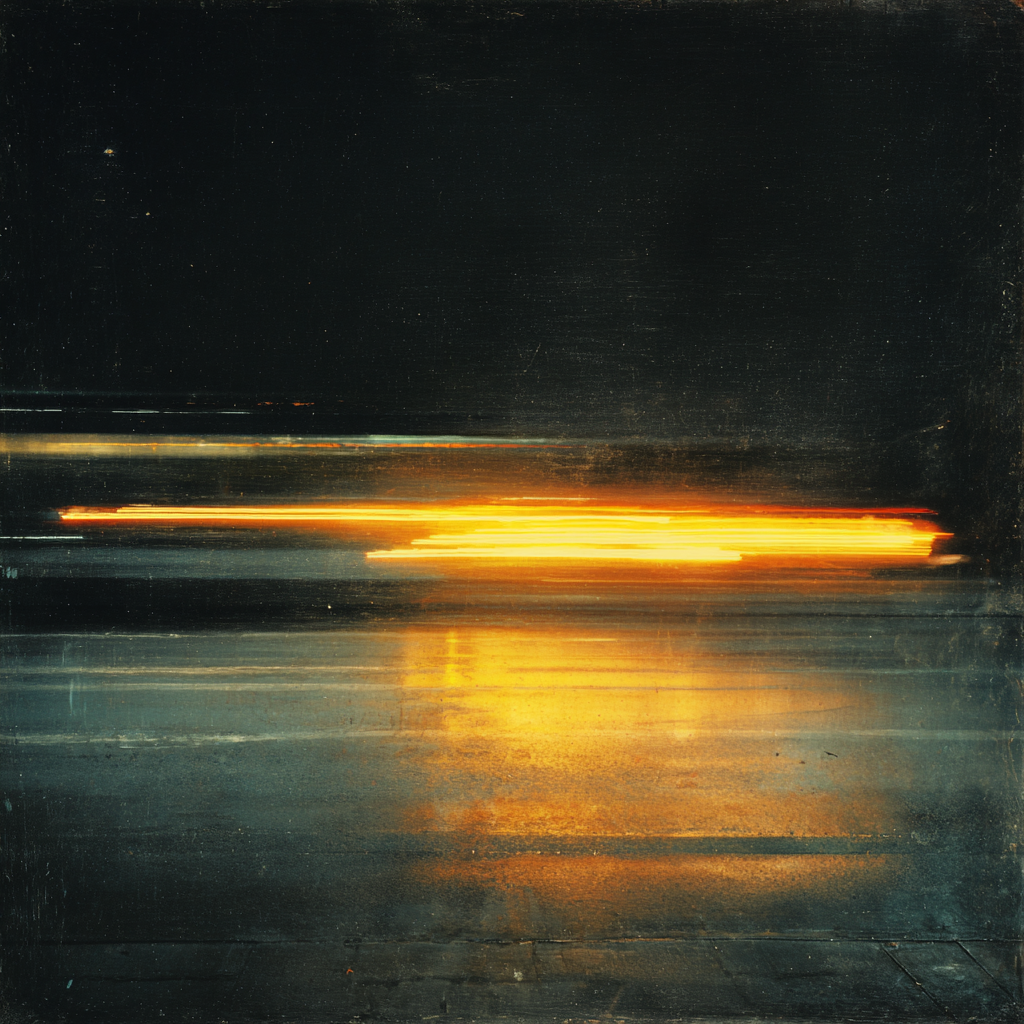
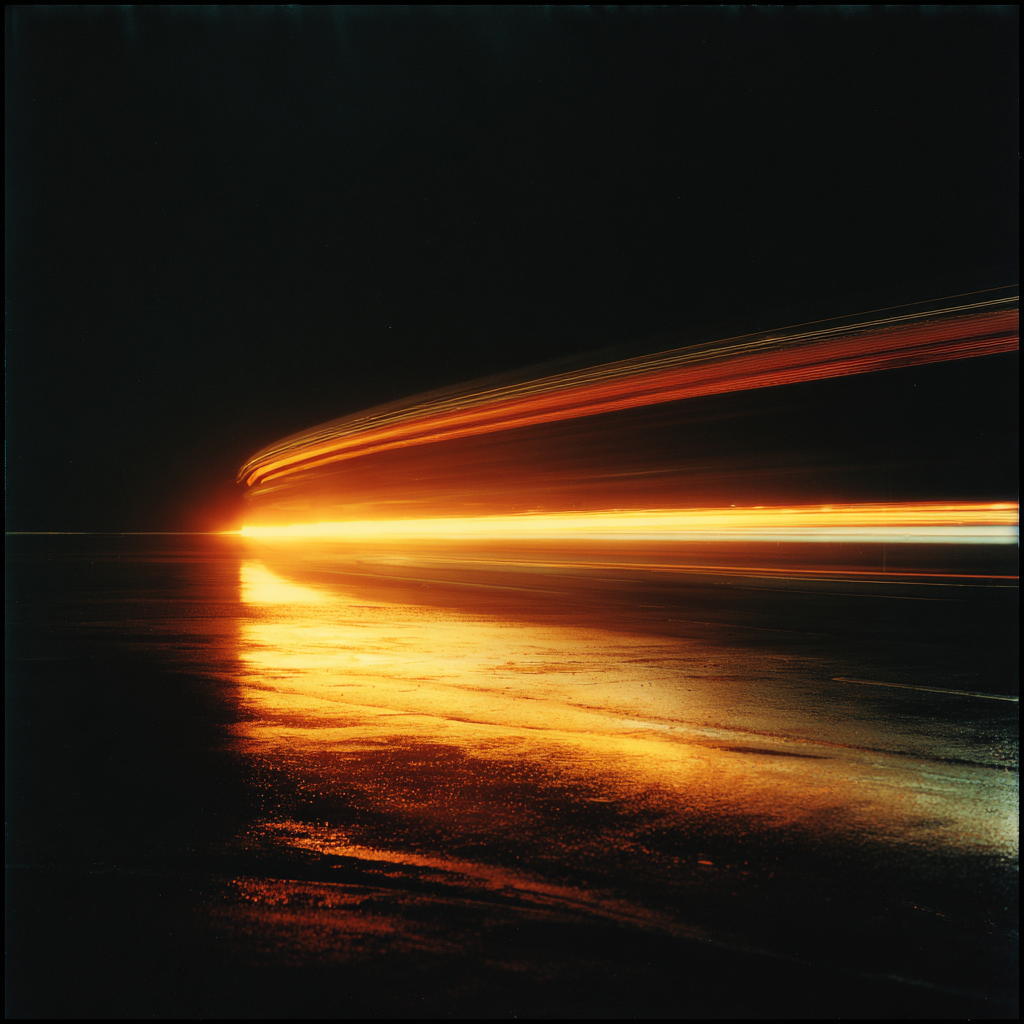
Hero: swap to background3 + 25% darken overlay
- public/img/hero-bg.png replaced with the new background3 source
  (sharper gold streak against deeper black, similar composition).
- New .hero__darken layer sits on top of the photograph + orbs (z=-1,
  source-after) so it brings the whole hero atmosphere down to ~75%
  brightness. Independent of image opacity so contrast and image
  brightness can be tuned separately if needed.
- Stacking order: bg (-2) → orbs (-1) → darken (-1 source-after) →
  noise → veil → text content. Text remains unaffected.

diff --git a/public/styles.css b/public/styles.css
@@ -1135,6 +1135,18 @@ body::after {
      here so the JS (motion.js parallax handler) can own it. */
 }
 
+/* 25 % darken layer sitting on top of the photograph AND the orbs.
+   Brings the whole hero atmosphere down to ~75% brightness, independent
+   of the image's own opacity so contrast can be tuned without changing
+   the photo's tonal range. */
+.hero__darken {
+  position: absolute;
+  inset: 0;
+  z-index: -1;
+  pointer-events: none;
+  background: rgba(0, 0, 0, 0.25);
+}
+
 /* Cloudy / pixellated noise overlay — monopo-style atmospheric texture.
    Generated inline as an SVG feTurbulence so we ship zero extra bytes
    and the texture stays crisp at any DPR. */

diff --git a/public/index.html b/public/index.html
@@ -39,13 +39,15 @@
         <div class="hero__bg" aria-hidden="true" data-parallax="0.35">
           <img src="/img/hero-bg.png" alt="" loading="eager" />
         </div>
-        <!-- Soft drifting orbs over the photograph, plus a noise overlay
-             so the photo reads as atmospheric rather than literal. -->
+        <!-- Soft drifting orbs over the photograph. -->
         <div class="hero__orbs" aria-hidden="true">
           <span class="hero__orb hero__orb--a"></span>
           <span class="hero__orb hero__orb--b"></span>
           <span class="hero__orb hero__orb--c"></span>
         </div>
+        <!-- 25 % darken layer sitting on top of photo + orbs. Brings the
+             whole hero atmosphere down to ~75% brightness. -->
+        <div class="hero__darken" aria-hidden="true"></div>
         <div class="hero__noise" aria-hidden="true"></div>
         <div class="hero__veil" aria-hidden="true"></div>
 